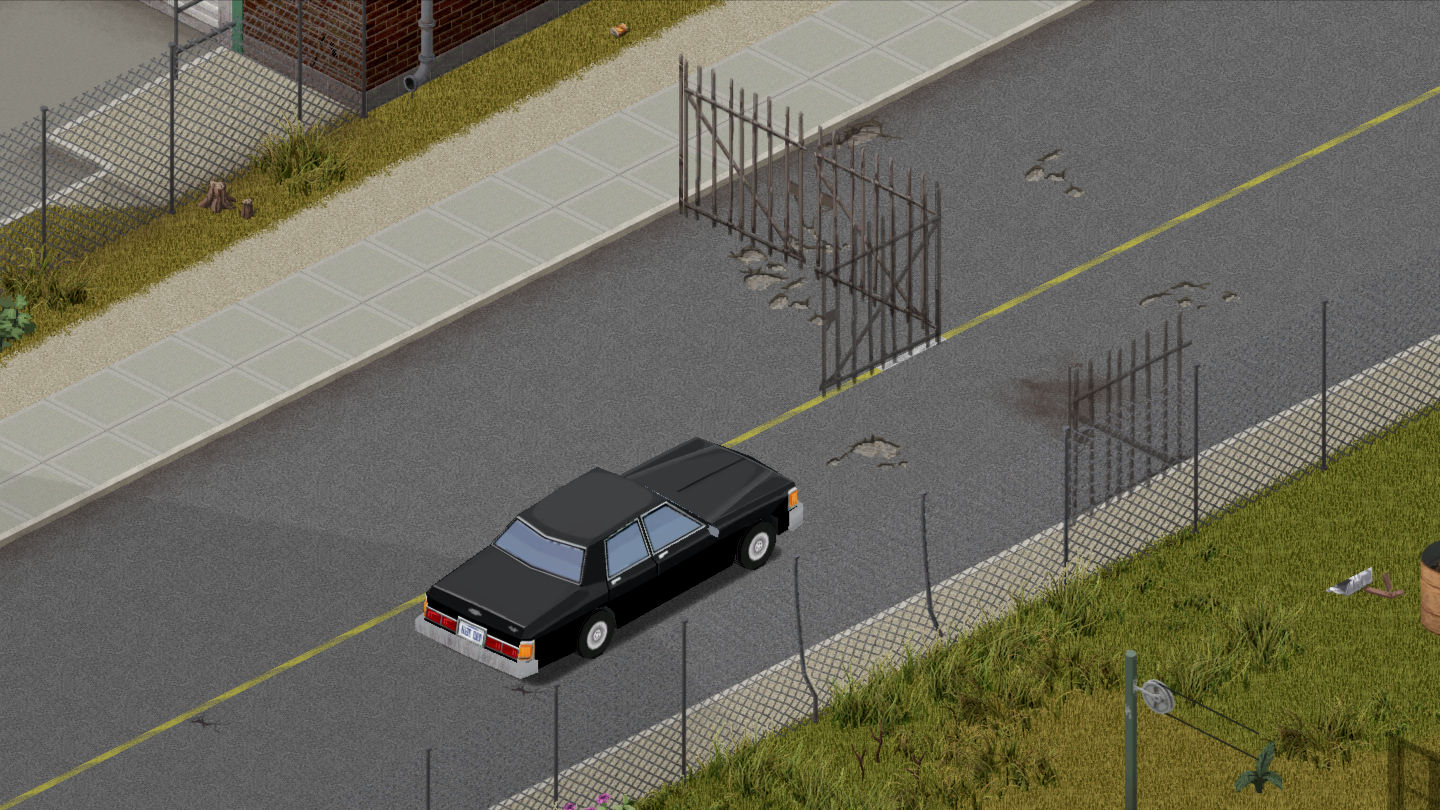
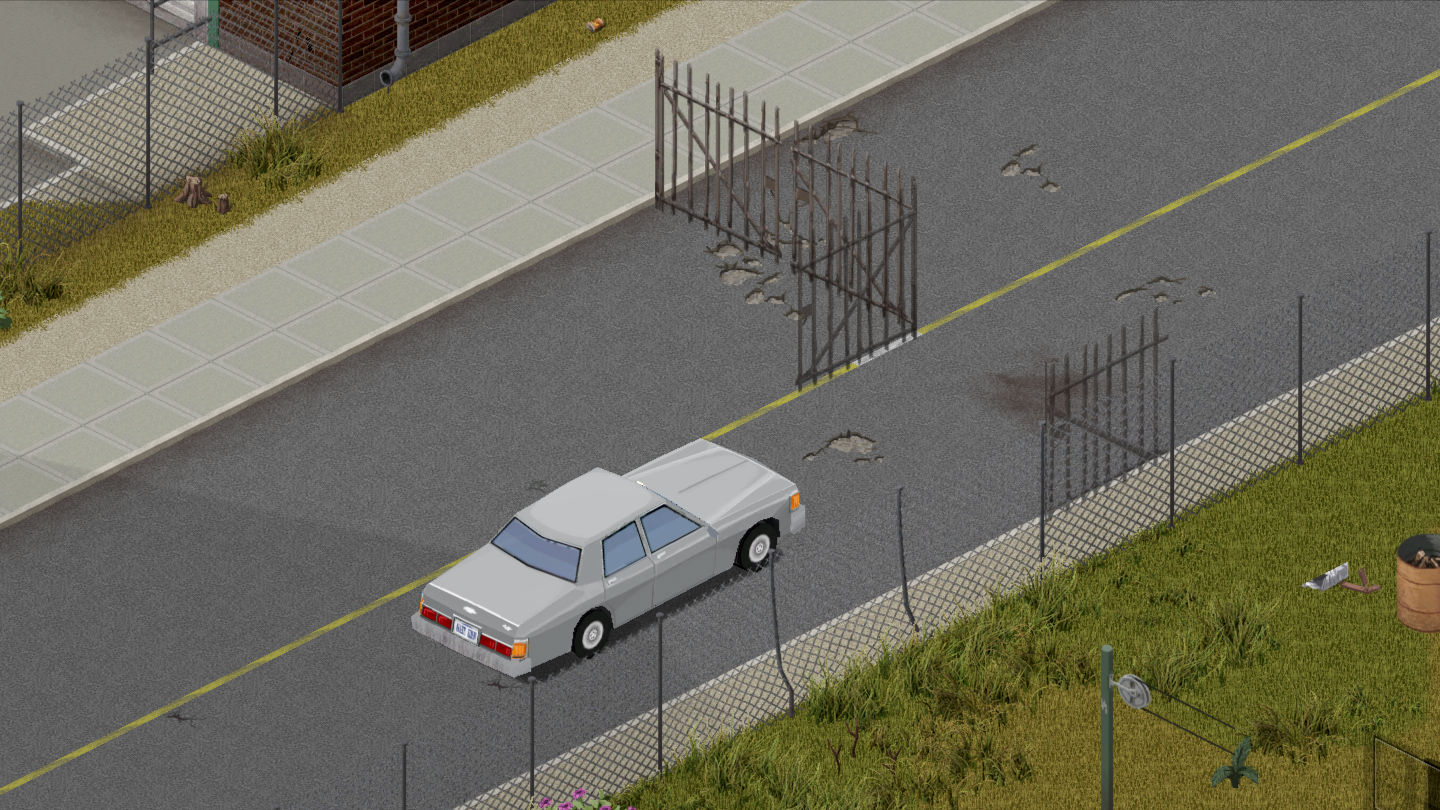
門柱讀頭與 MOD 車位置表的實機驗證、文件與 Workshop 截圖更新
- Workshop 截圖中英各 10 張：新增抬升閘門開啟、閘門預警、閘門組件製作、擋風玻璃感應盒；7 張舊圖由新的取代。
- CHANGELOG、README、STEAM_CHANGELOG、中英說明串：門柱上看得到讀頭；原版車與支援清單上的 MOD 車看得到感應盒，清單外可申請。workshop.txt 重新產生。
E2E：reader-mp knoxpass-reader-1005b 兩場 RESULT PASS（19＋4 項；D 在 10.0 格開門、沒感應盒的車壓過讀頭模型位置最低 19.7 km/h、重開後補回與孤兒移除）；models-mp knoxpass-models-1005j RUN PASS（25 項，MOD 表 4 台命中；F350、W900 兩款實機看得到盒子）；gate-mp 1005i、barrier-mp 1005o RUN PASS。閘門：verify PASS 16/0/1、harness 全過、build_barrier_tiles --check OK、gen_modcar_list --check OK。

diff --git a/CHANGELOG.md b/CHANGELOG.md
@@ -16,8 +16,8 @@
 
 ### 新增
 
-- **車用感應盒**：可以裝進任何有電瓶的車（原版與 MOD 車），從車輛維修面板的「Knox Pass」分類安裝、拆下，不需要工具；要有車鑰匙或車門沒鎖才能拆裝。內建電池，車子發動時由電瓶充電。裝上後，原版車的擋風玻璃上緣看得到這個感應盒；MOD 車多半看不到，但功能一樣。
-- **大門讀頭**：拿著讀頭和螺絲起子，對大門按右鍵安裝。原版的門、柵欄門、雙開門、車庫門，以及玩家建造的門都能裝。
+- **車用感應盒**：可以裝進任何有電瓶的車（原版與 MOD 車），從車輛維修面板的「Knox Pass」分類安裝、拆下，不需要工具；要有車鑰匙或車門沒鎖才能拆裝。內建電池，車子發動時由電瓶充電。裝上後，原版車與支援清單上的常見 MOD 車，擋風玻璃上緣看得到這個感應盒；清單外的 MOD 車未必看得到，但功能一樣。清單與申請方式在 Steam 討論串「🚗 支援的 MOD 車與申請」，也可以用 GitHub 的「MOD 車位置申請」表單提出。
+- **大門讀頭**：拿著讀頭和螺絲起子，對大門按右鍵安裝。原版的門、柵欄門、雙開門、車庫門，以及玩家建造的門都能裝。裝好後，門邊的門柱上看得到讀頭；拆下讀頭或門被拆掉時一起消失。
 - **登記車輛**：讀頭的擁有者在管理視窗把停在附近、裝了感應盒的車登記上去。登記跟著感應盒走，盒子換到別台車照樣能通行；用車輛維修面板拆下或裝上時，管理視窗上的車名會立刻跟著換，拆下來的顯示「未裝在車上」。
 - **自動開關門**：有人駕駛、裝著已登記感應盒的車開近就開門，開走後自動關上。車速越快越早開門；門口有車或有人時不會關門。
 - **抬升閘門**：製作「Knox Pass 抬升閘門組件」，從建造選單放在路上（佔 4 格：機箱 1 格加 3 格車道，旋轉可切換方向）。閘門內建讀頭，蓋的人就是擁有者，登記、門鎖、供電都跟大門一樣。關著時亮紅燈、桿上掛 STOP 牌，車道兩側畫了停止線與 KNOX PASS 字樣；為登記的車打開時桿子抬起、轉成綠燈。拆除機箱會收回組件。

diff --git a/README.md b/README.md
@@ -10,8 +10,8 @@ Project Zomboid Build 42 MOD。
 
 ## 功能
 
-- **車用感應盒**：真正的車輛零件，原版與 MOD 車都能裝，從車輛維修面板「Knox Pass」分類拆裝；內建電池，車子發動時由電瓶充電。原版車的擋風玻璃上緣看得到裝上的感應盒。
-- **大門讀頭**：對大門按右鍵安裝（需要螺絲起子）；支援地圖上的門、柵欄門、雙開門、車庫門與玩家建造的門。
+- **車用感應盒**：真正的車輛零件，原版與 MOD 車都能裝，從車輛維修面板「Knox Pass」分類拆裝；內建電池，車子發動時由電瓶充電。原版車與支援清單上的常見 MOD 車（`STEAM_DISCUSSION_modcars.md`，由 `scripts/blender/modcars.json` 產生），擋風玻璃上緣看得到裝上的感應盒；想支援別的 MOD 車，用 Issue 的「MOD 車位置申請」表單。
+- **大門讀頭**：對大門按右鍵安裝（需要螺絲起子）；支援地圖上的門、柵欄門、雙開門、車庫門與玩家建造的門。裝好後門柱上看得到讀頭。
 - **各門各自登記**：讀頭擁有者在管理視窗登記附近裝了感應盒的車；登記跟著感應盒走，換車照樣通行。
 - **自動開關門**：有人駕駛、裝著已登記感應盒的車靠近就開門，駛離後自動關；會依車速提前開門，自動駕駛不必停車；門口有車或有人時不關。
 - **抬升閘門**：製作組件後從建造選單放在路上（機箱 1 格加 3 格車道），內建讀頭、建造者就是擁有者；關著亮紅燈、掛 STOP 牌，開啟時桿子抬起轉綠燈，車道兩側有停止線與 KNOX PASS 字樣。

diff --git a/STEAM_CHANGELOG.md b/STEAM_CHANGELOG.md
@@ -6,11 +6,11 @@
 [h3]🚗 開車通過大門[/h3]
 [list]
 [*] 感應盒從車輛維修面板的「Knox Pass」分類安裝，任何有電瓶的車都能裝（包含 MOD 車），不需要工具；要有車鑰匙或車門沒鎖才能拆裝。
-[*] 拿著讀頭和螺絲起子對大門按右鍵就能安裝；原版的門、柵欄門、雙開門、車庫門與玩家建造的門都支援。
+[*] 拿著讀頭和螺絲起子對大門按右鍵就能安裝；原版的門、柵欄門、雙開門、車庫門與玩家建造的門都支援。裝好後門柱上看得到讀頭。
 [*] 讀頭的擁有者在管理視窗登記附近裝了感應盒的車。登記跟著感應盒走，把盒子換到別台車照樣能通行。
 [*] 有人駕駛、裝著已登記感應盒的車開近就開門，車速越快越早開；開走後自動關上，門口有車或有人時不會關。
 [*] 開向一扇不會為你打開的大門或閘門時，約 20 格前就會在頭上與右上角說明原因，避免直接撞上。
-[*] 裝上感應盒後，原版車的擋風玻璃上緣看得到它。
+[*] 裝上感應盒後，原版車與支援清單上的常見 MOD 車，擋風玻璃上緣看得到它；清單外的 MOD 車可以到討論區申請。
 [/list]
 
 [h3]🚧 抬升閘門[/h3]

diff --git a/STEAM_DISCUSSION_guide_EN.md b/STEAM_DISCUSSION_guide_EN.md
@@ -28,7 +28,7 @@ Knox Pass lets you drive home without getting out: put a tag in the car and a re
 [h3]Gate Reader[/h3]
 [list]
 [*] [b]Where it fits[/b]: map doors, fence gates, double doors, garage doors, and player-built doors and gates.
-[*] [b]Installing[/b]: right-click the gate with the reader and a screwdriver. Whoever installs it owns it.
+[*] [b]Installing[/b]: right-click the gate with the reader and a screwdriver. Whoever installs it owns it. Once installed, the reader shows on the gate post (a boom barrier has its reader on top of the cabinet); it doesn't block people or cars.
 [*] [b]Management window[/b]: shows the gate type, owner, power, lock, registered cars (charge, last pass) and nearby cars with a tag.
 [*] [b]Removing[/b]: the owner can take the reader back. If Knox Pass has the gate open, it closes it first and restores the original lock.
 [/list]
